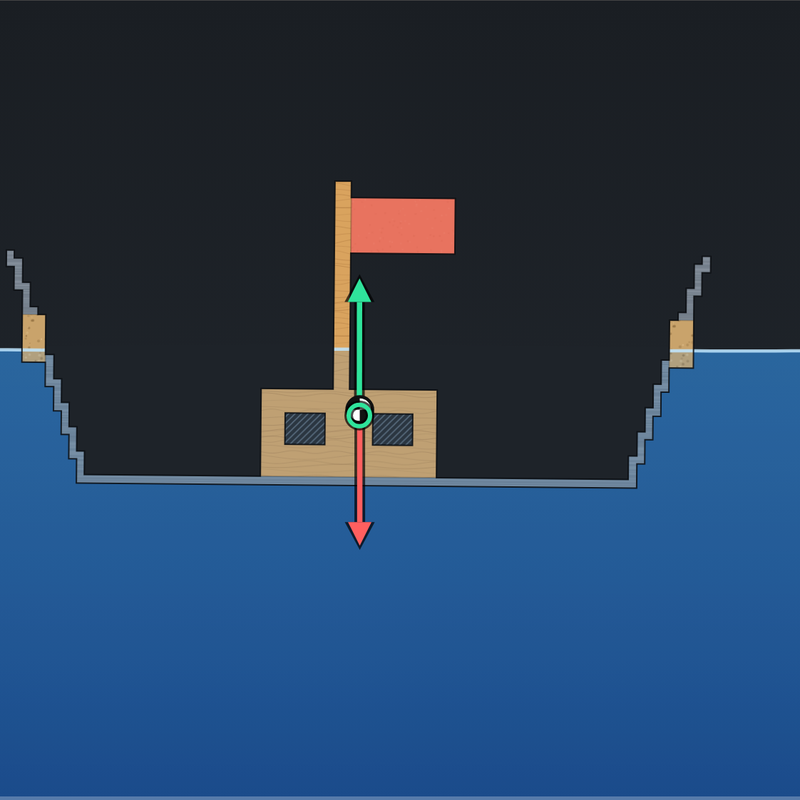
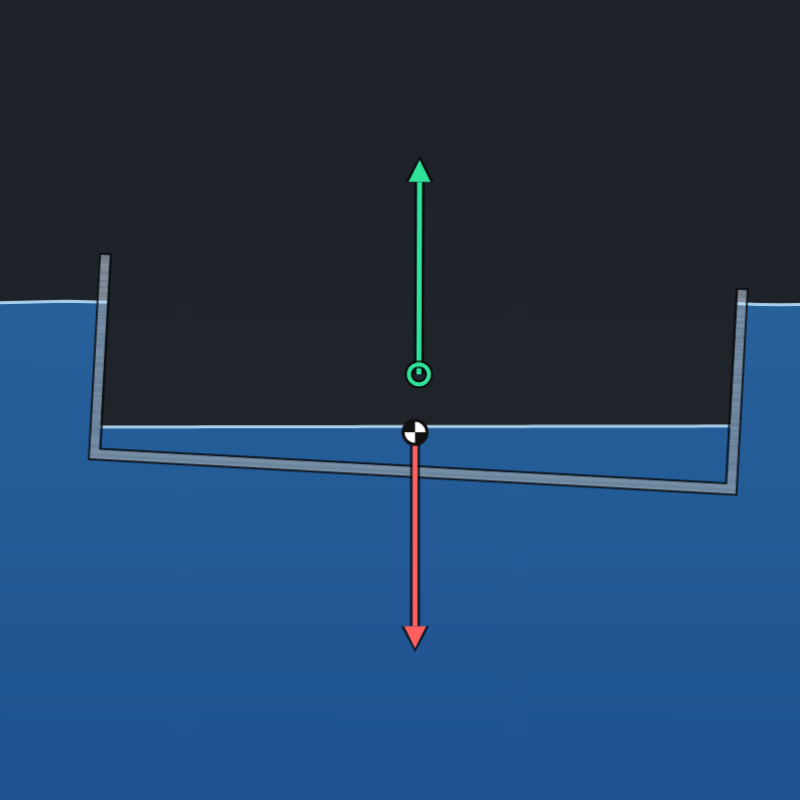
Spill over a lip into a hull; refresh the tile image
- A short wet stretch of rim now shows liquid spilling over the lip
  and arcing inwards instead of a thin vertical curtain.
- The outside level at an opening is capped by the level just beyond
  the opening's ends: the tank surface is one curve across the tank,
  so a wave crest "over" a dry hull let liquid in through mid-mouth.
- Jets are capped at 2 cm wide and no longer start as a blob.
- New tile: a steel boat with water inside, weight and buoyancy.

Changed region(s): [[0.0, 0.1875, 1.0, 0.8125], [0.0, 0.9688, 1.0, 1.0], [0.875, 0.3125, 0.9062, 0.3438]]

diff --git a/assets/js/buoyancy_core.js b/assets/js/buoyancy_core.js
@@ -648,13 +648,26 @@
             let lowZ = Infinity, lowX = 0, lowY = 0;                         // lowest lip the liquid leaves over
             let bubX = 0, bubY = 0;                                          // where trapped air escapes
             const F = cv.faces;
+            // The tank's surface is one curve across the whole tank, so over the object it means
+            // nothing: liquid reaches an opening from beyond its ends, so the outside level at a
+            // face is capped by the level just outside the opening's ends.
+            let fx0 = Infinity, fx1 = -Infinity;
+            for (let f = 0; f < cv.nf; f++) {
+                const X = x0 + c * F[4 * f] - s * F[4 * f + 1];
+                if (X < fx0) fx0 = X;
+                if (X > fx1) fx1 = X;
+            }
+            const sL = surfaceAt(fx0 - CELL), sR = surfaceAt(fx1 + CELL);
+            const fspan = fx1 - fx0 > 1e-6 ? fx1 - fx0 : 1;
             for (let f = 0; f < cv.nf; f++) {
                 const mx = F[4 * f], my = F[4 * f + 1], nx = F[4 * f + 2], ny = F[4 * f + 3];
                 const X = x0 + c * mx - s * my, Yf = y0 + s * mx + c * my;
                 const nwx = c * nx - s * ny, nwy = s * nx + c * ny;
                 const e = (nwx < 0 ? -nwx : nwx) * hc;
                 const z0 = Yf - e, z1 = Yf + e;
-                const S = surfaceAt(X);
+                const sEnds = sL + (sR - sL) * (X - fx0) / fspan;
+                const sHere = surfaceAt(X);
+                const S = sHere < sEnds ? sHere : sEnds;
                 const airIn = !full && hin < z1 - AIR_EPS;
                 const airOut = S < z1 - AIR_EPS;
                 if (airIn) {
@@ -731,6 +744,16 @@
                 cv.sY = wIY / w;
                 const pad = 0.5 * CELL;
                 cv.cX0 = inX0 - pad; cv.cY0 = inY0; cv.cX1 = inX1 + pad; cv.cY1 = inY1;
+                if (cv.sMode === 1 && inX1 - inX0 < 0.06) {
+                    // only a short stretch of rim is under: the liquid spills over the lip, inwards
+                    const lipLeft = inY0 <= inY1;
+                    const lx = lipLeft ? inX0 : inX1, ly = lipLeft ? inY0 : inY1;
+                    const inward = cv.xs >= lx ? 1 : -1;
+                    cv.sMode = 3;
+                    cv.sX = lx + inward * 0.5 * CELL; cv.sY = ly;
+                    cv.sNX = inward; cv.sNY = 0;
+                    cv.sV = 0.8 * Math.sqrt(2 * g * dIn);
+                }
             } else if (QO > 0) {
                 const w = qOut;
                 sQ = QO;
@@ -821,7 +844,7 @@
         let n = 0;
         for (let i = 0; i < JET_MAX; i++) {
             const sp = Math.hypot(vx, vy);
-            jetX[n] = x; jetY[n] = y; jetW[n] = cv.sQ / Math.max(0.2, sp); n++;
+            jetX[n] = x; jetY[n] = y; jetW[n] = cv.sQ / Math.max(0.7, sp); n++;
             const r = inflow ? cavityLevelAt(cv, x) : Math.max(0, surfaceAt(x));
             if (y <= r || x < 0 || x > TANK_W) break;
             if (inflow && (x < cv.xmin - CELL || x > cv.xmax + CELL || y < cv.ymin - CELL)) break;
@@ -2097,7 +2120,7 @@
     }
 
     function drawJet(cv, n, liq) {
-        const maxW = 0.03 * scale;
+        const maxW = 0.02 * scale;
         ctx.lineCap = 'round';
         ctx.lineJoin = 'round';
         ctx.strokeStyle = 'rgba(' + liq.top.join(',') + ',0.9)';
@@ -2600,8 +2623,8 @@
         if (!P) {
             predictionLines = [];
             if (!el.mass) return;
-            setText(el.mass, '-'); setText(el.volume, '-'); setText(el.density, '-');
-            setText(el.submerged, '-'); setText(el.weight, '-'); setText(el.buoyancy, '-');
+            setText(el.mass, '–'); setText(el.volume, '–'); setText(el.density, '–');
+            setText(el.submerged, '–'); setText(el.weight, '–'); setText(el.buoyancy, '–');
             return;
         }
         const V = (P.areaMat + P.areaSealed) * DEPTH;
@@ -2619,8 +2642,8 @@
             setText(el.buoyancy, fmtR(Math.hypot(fv.fbX, fv.fbY)));
         } else {
             setText(el.weight, fmtR(M * g));
-            setText(el.submerged, '-');
-            setText(el.buoyancy, '-');
+            setText(el.submerged, '–');
+            setText(el.buoyancy, '–');
         }
     }
 

diff --git a/buoyancy_simulation.html b/buoyancy_simulation.html
@@ -273,12 +273,12 @@
 										</div>
 										<div class="sim-info-bar" id="statsBar">
 											<div class="stats-container">
-												<div class="stats-box"><strong>Mass:</strong> <span class="sim-value" id="statMass" style="--chars: 4">-</span> kg</div>
-												<div class="stats-box"><strong>Volume:</strong> <span class="sim-value" id="statVolume" style="--chars: 4">-</span> L</div>
-												<div class="stats-box"><strong>Density:</strong> <span class="sim-value" id="statDensity" style="--chars: 5">-</span> kg/m³</div>
-												<div class="stats-box"><strong>Submerged:</strong> <span class="sim-value" id="statSubmerged" style="--chars: 3">-</span>%</div>
-												<div class="stats-box"><strong>Weight:</strong> <span class="sim-value" id="statWeight" style="--chars: 5">-</span> N</div>
-												<div class="stats-box"><strong>Buoyancy:</strong> <span class="sim-value" id="statBuoyancy" style="--chars: 5">-</span> N</div>
+												<div class="stats-box"><strong>Mass:</strong> <span class="sim-value" id="statMass" style="--chars: 4">&ndash;</span> kg</div>
+												<div class="stats-box"><strong>Volume:</strong> <span class="sim-value" id="statVolume" style="--chars: 4">&ndash;</span> L</div>
+												<div class="stats-box"><strong>Density:</strong> <span class="sim-value" id="statDensity" style="--chars: 5">&ndash;</span> kg/m³</div>
+												<div class="stats-box"><strong>Submerged:</strong> <span class="sim-value" id="statSubmerged" style="--chars: 3">&ndash;</span>%</div>
+												<div class="stats-box"><strong>Weight:</strong> <span class="sim-value" id="statWeight" style="--chars: 5">&ndash;</span> N</div>
+												<div class="stats-box"><strong>Buoyancy:</strong> <span class="sim-value" id="statBuoyancy" style="--chars: 5">&ndash;</span> N</div>
 											</div>
 											<div class="sim-info-actions">
 												<button id="resetSimulationBtn" class="sim-reset-button sim-icon-button" aria-label="Drop the object again" title="Drop the object again">

diff --git a/assets/css/buoyancy_styles.css b/assets/css/buoyancy_styles.css
@@ -354,10 +354,6 @@
         height: 100%;
     }
 
-    body.sim-fullscreen-active .buoy-toolbar {
-        align-self: start;
-        max-height: 100%;
-    }
 }
 
 /* ---------- Info bar: read-outs on the left, buttons on the right of the first row ---------- */
